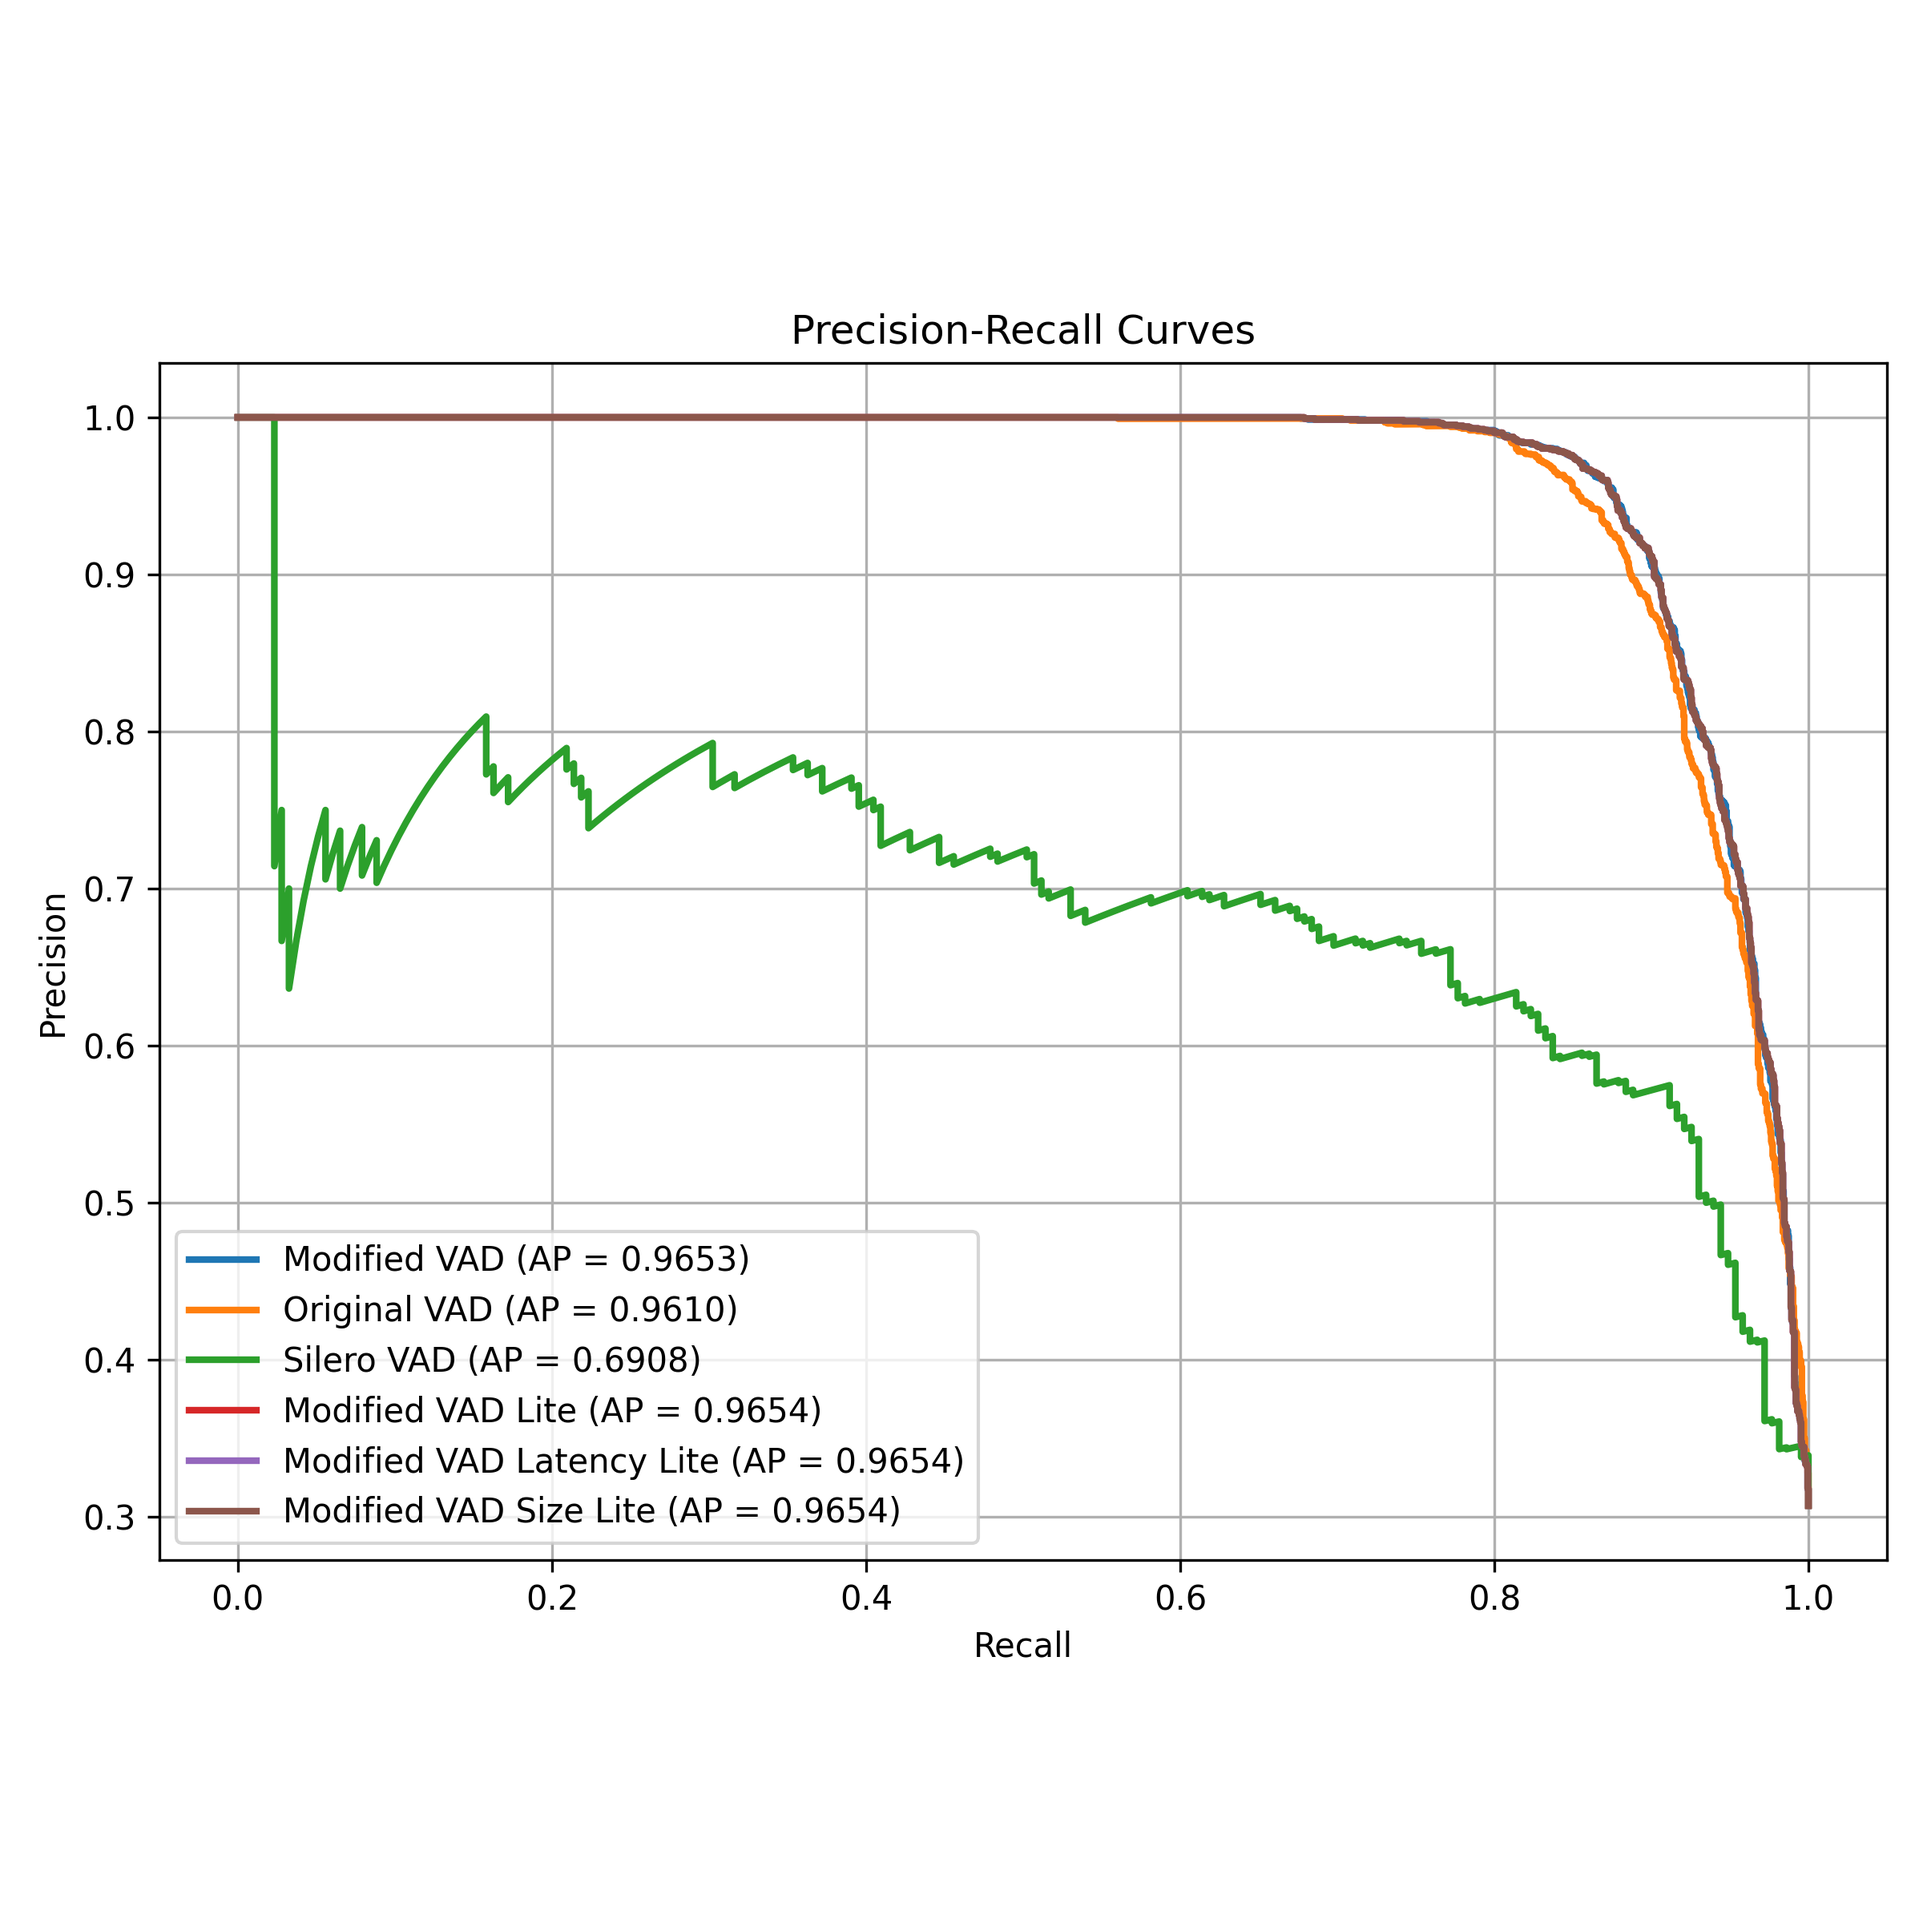
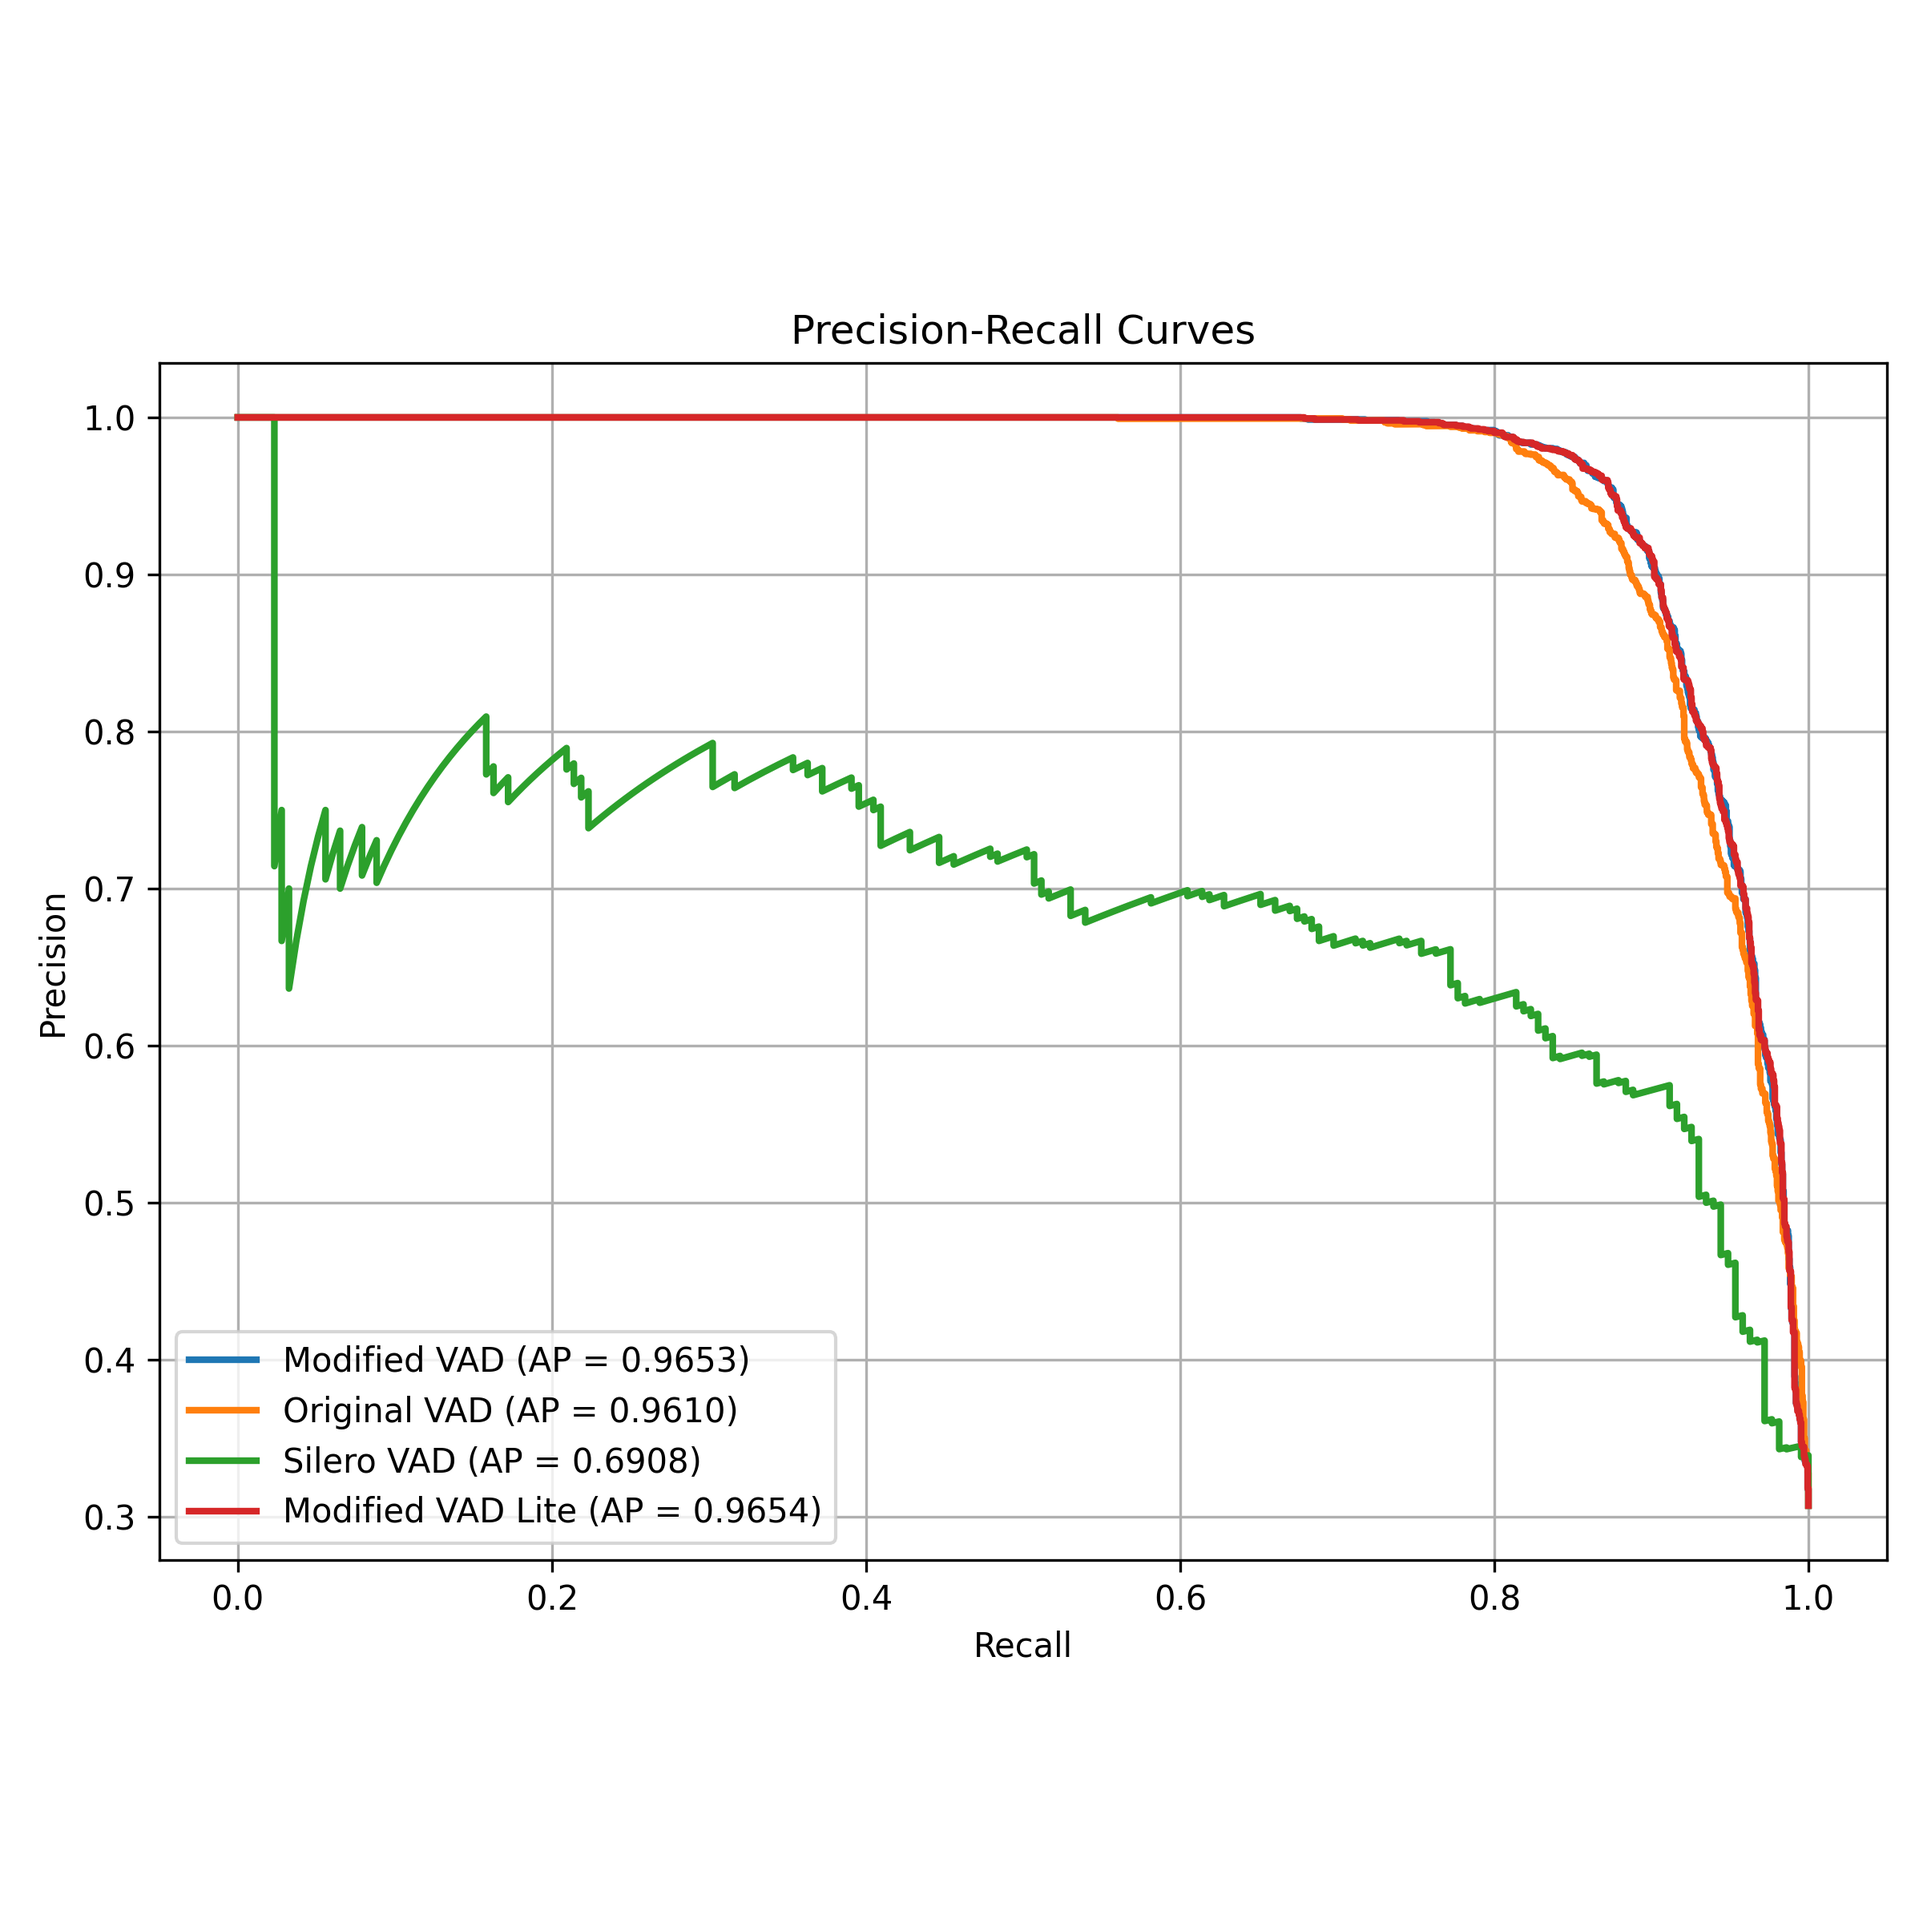
new metric images

diff --git a/src/evaluation/__init__.py b/src/evaluation/__init__.py
@@ -16,9 +16,9 @@ def execute_evaluation():
     labels_silero = np.load('data/output/prediction_audio_clip_2/other_model_predictions/silero_labels17200.npy')
     preds_silero = np.load('data/output/prediction_audio_clip_2/other_model_predictions/silero_preds17200.npy')
 
-    labels_list = [labels_model_v4, labels_original, labels_silero, labels_model_v4_lite,labels_model_v4_latency_lite, labels_model_v4_size_lite]
-    preds_list = [preds_model_v4, preds_original, preds_silero, preds_model_v4_lite, preds_model_v4_latency_lite, preds_model_v4_size_lite]
-    model_names = ['Modified VAD', 'Original VAD', 'Silero VAD', 'Modified VAD Lite', 'Modified VAD Latency Lite', 'Modified VAD Size Lite']
+    labels_list = [labels_model_v4, labels_original, labels_silero, labels_model_v4_lite]
+    preds_list = [preds_model_v4, preds_original, preds_silero, preds_model_v4_lite]
+    model_names = ['Modified VAD', 'Original VAD', 'Silero VAD', 'Modified VAD Lite']
 
     precision_recall_plot(labels_list, preds_list, model_names)
     auc_roc_plot(labels_list, preds_list, model_names)
